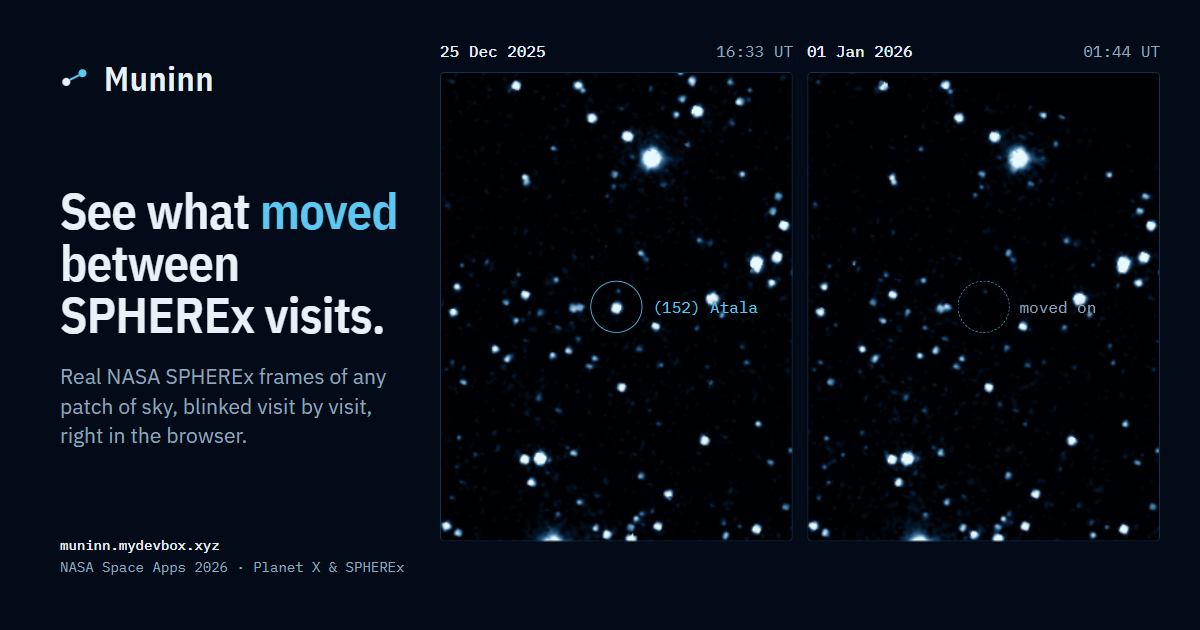
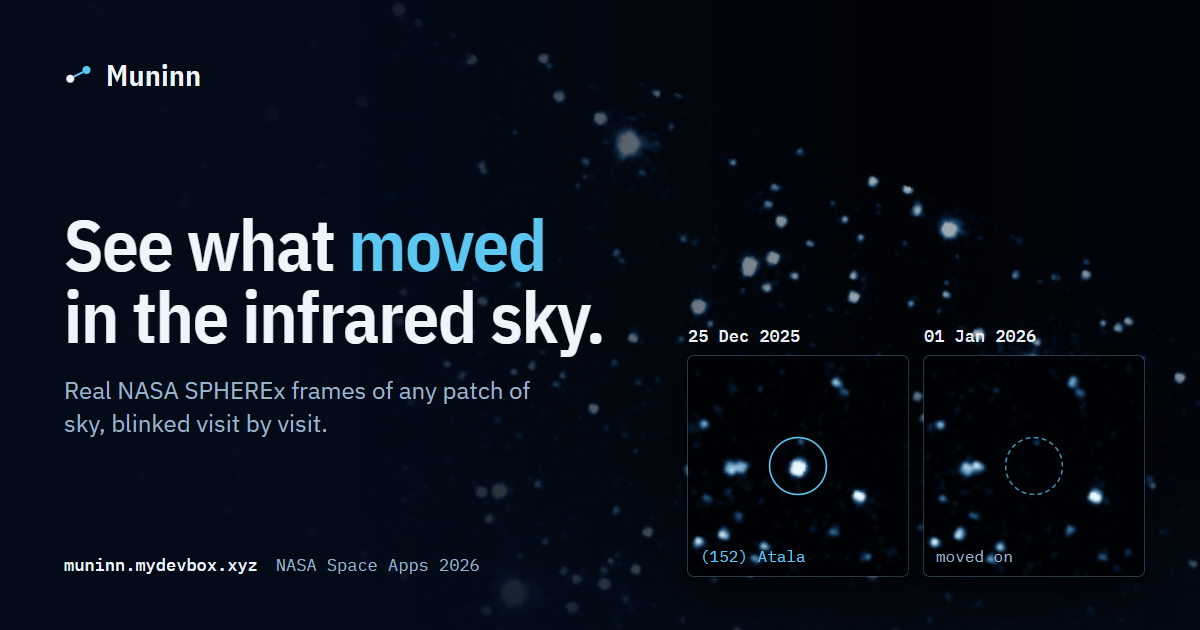
fix: a link preview that reads at thumbnail size
The first card was two tall strips of stars with small labels; at the
size Telegram shows it, the change could not be seen. Now a real SPHEREx
frame fills the card, the headline is large on a shaded left half, and
the change is two magnified insets: (152) Atala on 25 Dec 2025, the same
spot empty on 1 Jan 2026. The image URL is versioned so cached previews
refresh.

diff --git a/public/index.html b/public/index.html
@@ -11,10 +11,10 @@
      visit, and the same spot a week later. -->
 <meta property="og:type" content="website">
 <meta property="og:site_name" content="Muninn">
-<meta property="og:title" content="Muninn — see what moved between SPHEREx visits">
+<meta property="og:title" content="Muninn — see what moved in the infrared sky">
 <meta property="og:description" content="Real NASA SPHEREx frames of any patch of sky, blinked visit by visit in the browser. NASA Space Apps 2026 · Planet X and SPHEREx.">
 <meta property="og:url" content="https://muninn.mydevbox.xyz/">
-<meta property="og:image" content="https://muninn.mydevbox.xyz/img/og.png">
+<meta property="og:image" content="https://muninn.mydevbox.xyz/img/og.png?v=2">
 <meta property="og:image:width" content="1200">
 <meta property="og:image:height" content="630">
 <meta property="og:image:alt" content="Two SPHEREx frames of the same field: asteroid (152) Atala ringed on 25 Dec 2025, the same spot empty on 1 Jan 2026.">
